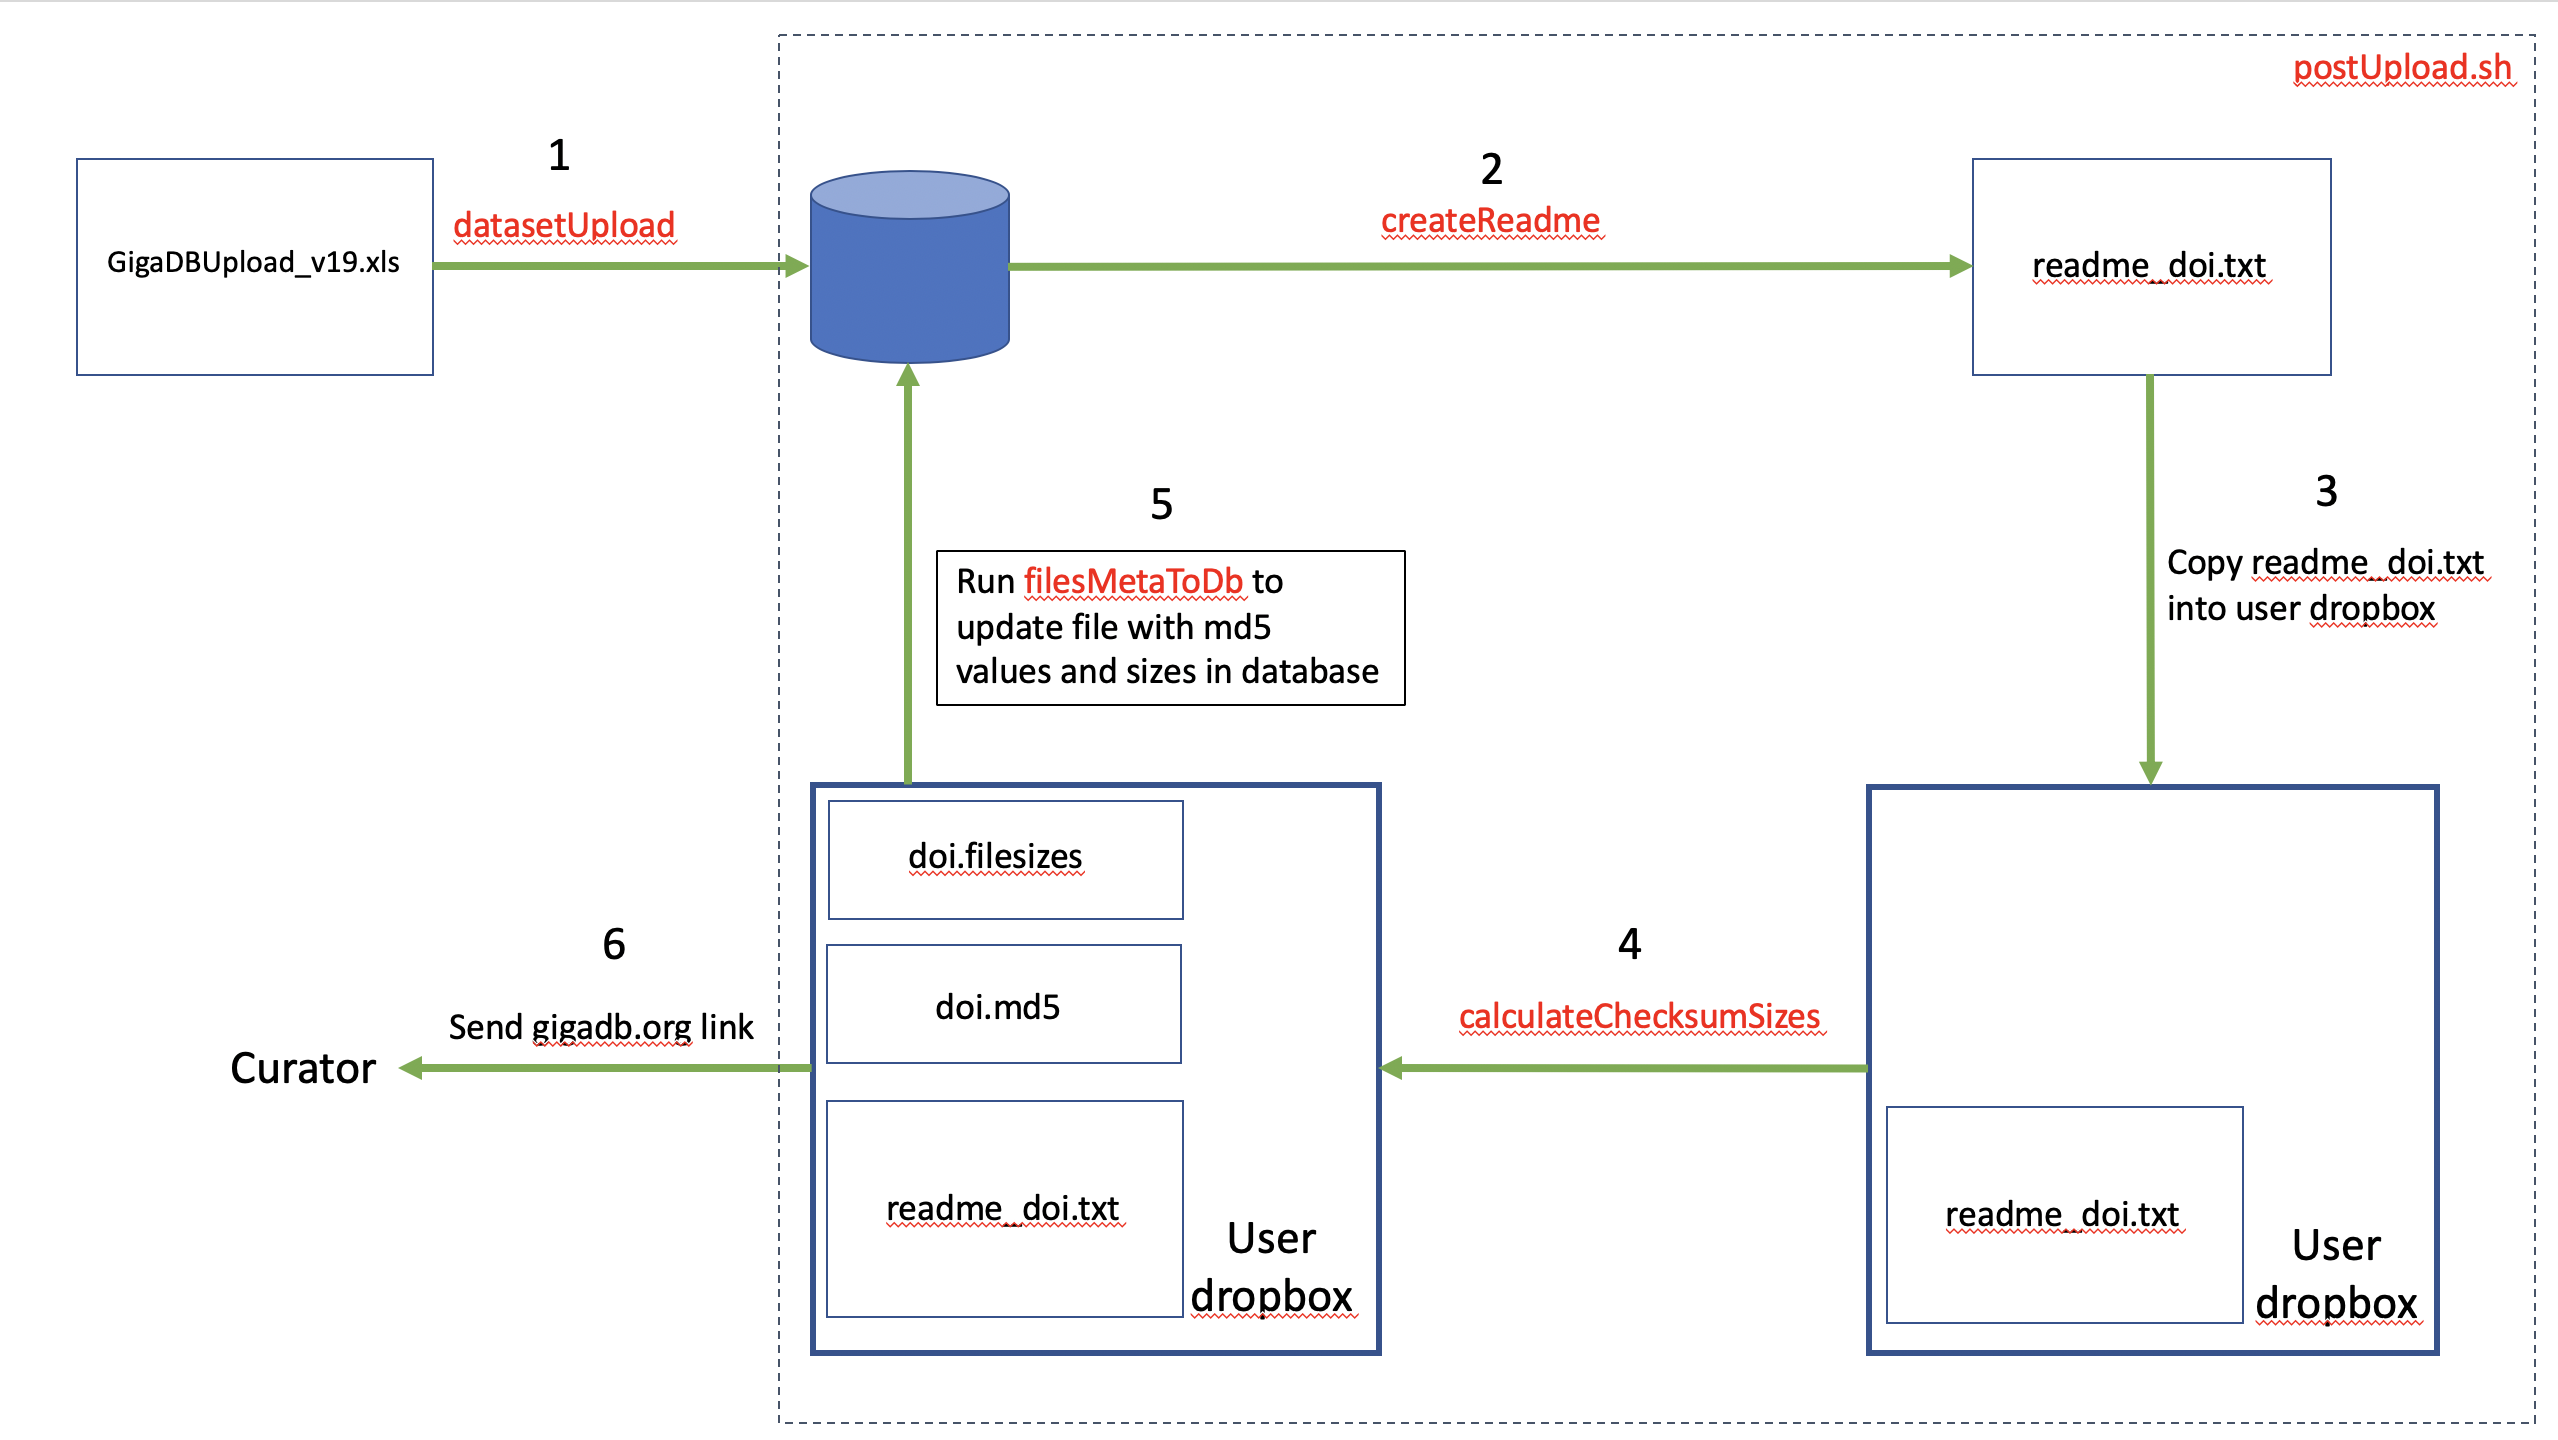
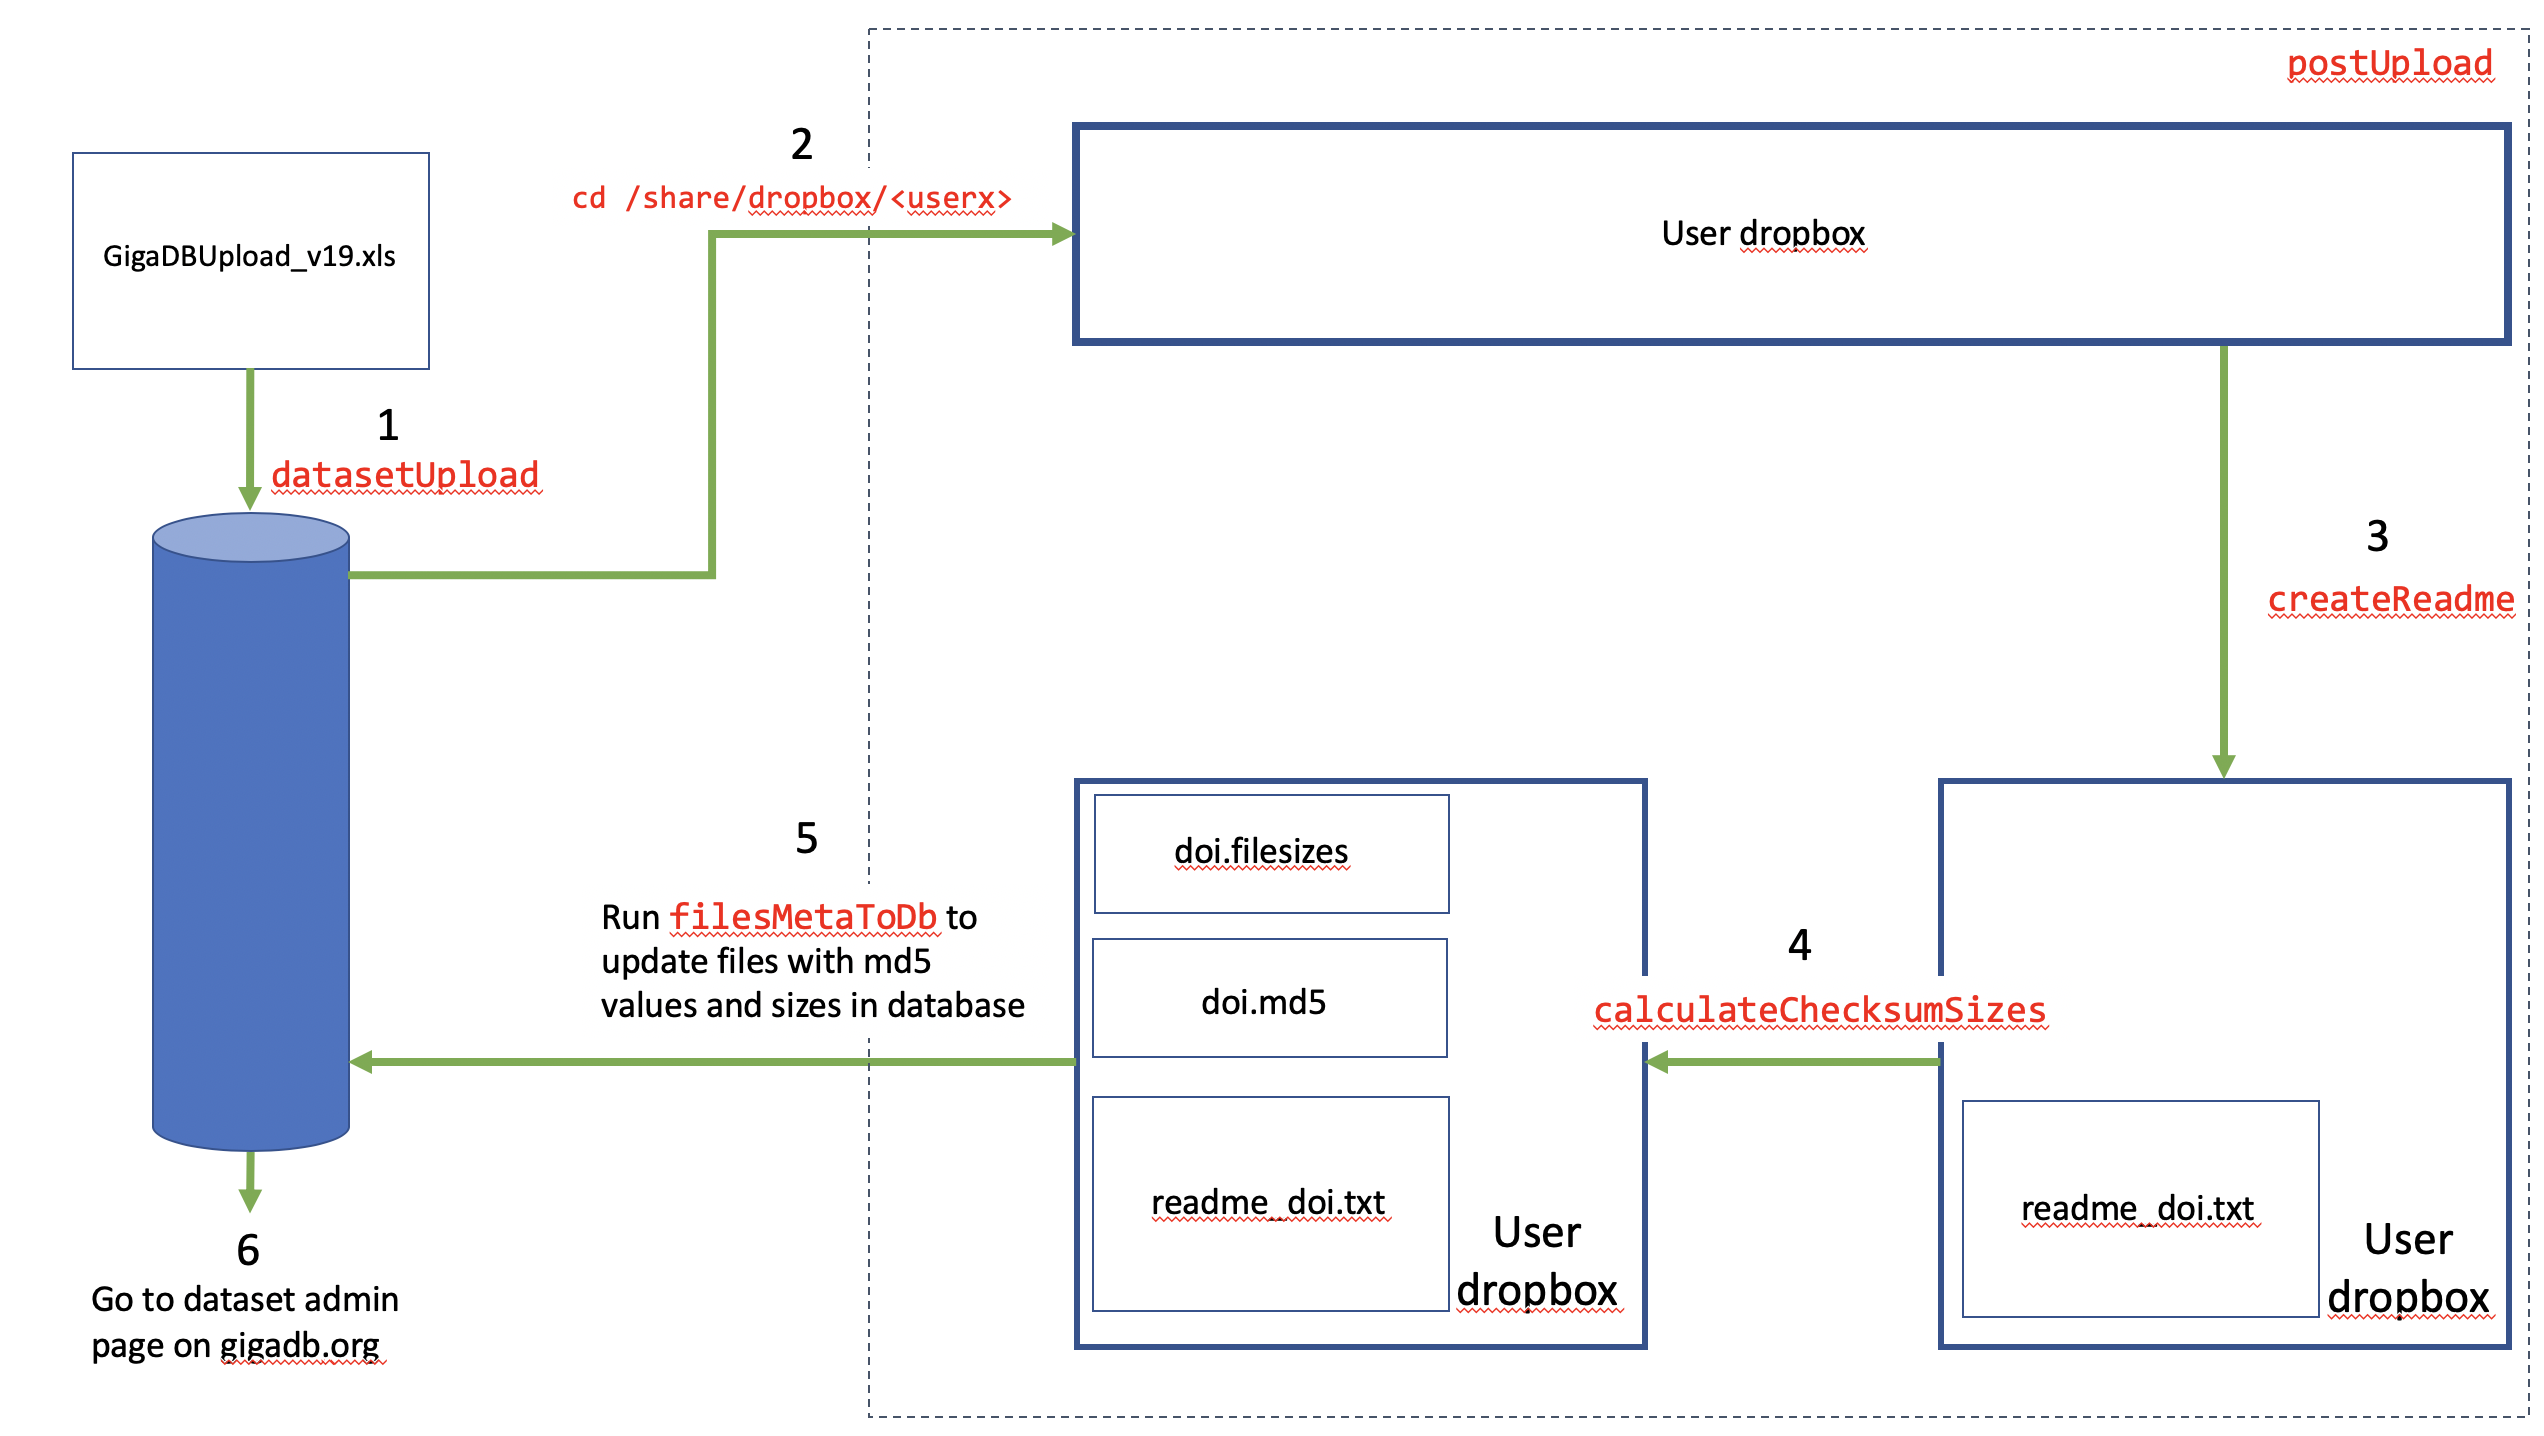
Update curator documentation

diff --git a/docs/curators/CURATOR_TOOLS_BASTION.md b/docs/curators/CURATOR_TOOLS_BASTION.md
@@ -4,13 +4,13 @@
 
 ![Tool Overview](./overview.png 'Overview of tools on bastion server')
 
-The bastion server provides a set of command-line tools which implement the above workflow for ingesting Excel spreadsheets and performing post-upload operations.
+New datasets are uploaded into GigaDB using Excel spreadsheets. The bastion server provides a set of command-line tools which implement the above workflow for ingesting Excel spreadsheets and performing post-upload operations.
 
 ## 1. datasetUpload
 
 After you have logged into the bastion server (bastion.gigadb.host) using SSH, you can begin the process of Excel spreadsheet ingestion into GigaDB.
 
-New datasets are uploaded into GigaDB using Excel spreadsheets. Dataset metadata is added into [Excel template file version 19](https://github.com/gigascience/gigadb-website/blob/develop/gigadb/app/tools/excel-spreadsheet-uploader/template/GigaDBUpload-template_v19.xls). This Excel file needs to placed in the `uploadDir` directory:
+Dataset metadata is added into [Excel template file version 19](https://github.com/gigascience/gigadb-website/blob/develop/gigadb/app/tools/excel-spreadsheet-uploader/template/GigaDBUpload-template_v19.xls). This Excel file needs to placed in the `uploadDir` directory:
 ```
 # Your home directory can be referred to using ~
 [peterl@ip-10-99-0-88 ~]$ ls ~
@@ -20,7 +20,7 @@ uploadDir
 Excel files can be uploaded into `uploadDir` using `sftp` tool or [Filezilla](https://filezilla-project.org).
 
 > [!TIP]
-> For testing purposes, download a test Excel file into `uploadDir` using this command: `curl -L -o "./uploadDir/GigaDBUpload_v18_102498_TRR_202311_02_Cell_Clustering_Spatial_Transcriptomics.xls" "https://drive.google.com/uc?export=download&id=1sLabqRPkhF61nRocLmumjjCxxjzmODH5"`
+> For testing purposes, download a test Excel file into `uploadDir` using this command: `curl -L -o "./uploadDir/GigaDBUpload_v18_102498_TRR_202311_02_Cell_Clustering_Spatial_Transcriptomics.xls" "https://drive.google.com/uc?export=download&id=129j3ikdSojNVpvZPnBefoOA2Uz6OusHR"`
 
 The Excel file can then be ingested using the datasetUpload script in `/usr/local/bin`:
 ```
@@ -79,39 +79,34 @@ validation output: false
 
 > In the above example error, dataset_type is wrongly spelt as `Genomics` which breaks the ingestion process and therefore needs to be corrected.
 
-## 2. createReadme
+## 2. Change directory to /share/dropbox/user directory
 
-From your home directory on the bastion server, readme files for datasets can be created using the `createReadme` script by calling it with a DOI; `--wasabi --apply --use-live-data` are parameters required to copy the readme file into Wasabi:
+Each dataset has an associated user dropbox directory located at `/share/dropbox/` that contains the files belonging to the dataset. Change directory to this user drop box directory, for example:
+```
+$ cd /share/dropbox/user5
+```
+
+## 3. createReadme
+
+From this the user dropbox directory, a readme file for the dataset can be created using the `createReadme` script by calling it with a DOI; `--wasabi --apply --use-live-data` are parameters required to copy the readme file into Wasabi:
 ```
 [peterl@ip-10-99-0-142 ~]$ pwd
-/home/peterl
+/share/dropbox/user5
 [peterl@ip-10-99-0-88 ~]$ sudo /usr/local/bin/createReadme --doi 102498
 ```
 
-A `readme_<doi>.txt` file will appear in the `uploadDir` directory.
+A `readme_<doi>.txt` file will appear in `/share/dropbox/user5` directory.
 ```
-[peterl@ip-10-99-0-142 ~]$ ls uploadDir/
-java.log  javac.log  readme_102498.txt  readme_102498_20240727_042600.log
+[peterl@ip-10-99-0-142 ~]$ ls
+DLPFC_69_72_VNS_results.csv  E2_VNS_Ground_Truth.csv  readme_102498.txt
 ```
 The readme file will also have been uploaded into the correct dataset directory in Wasabi live bucket.  The file size and MD5 value for the readme file will also be updated in the database.
 
-> [!NOTE]
-> To continue with the remainder of this workflow requires a user dropbox. We will be using the directory at `/share/dropbox/user5` that contains 2 files: `DLPFC_69_72_VNS_results.csv` and `E2_VNS_Ground_Truth.csv`. For the time being, the tech team will create new user dropboxes on request.
-
-## 3. Copy `readme_doi.txt` file into user dropbox
-
-The readme file in the uploadDir directory needs to be copied into the user dropbox:
-```
-[peterl@ip-10-99-0-142 ~]$ cp uploadDir/readme_102498.txt /share/dropbox/user5
-```
-
 ## 4. calculateChecksumSizes
 
-`$doi.md5` and `$doi.filesizes` provide information used to update dataaset files with md5 values and file size information in the database. The two files can be generated as follows:
+`$doi.md5` and `$doi.filesizes` provide information used to update dataset files with md5 values and file size in the database. These two files can be generated from the user5 dropbox:
 ```
-# Change directory to the user5 dropbox
-[peterl@ip-10-99-0-95 user5]$ cd /share/dropbox/user5
-# Provide the DOI number as a parameter
+# Provide DOI number as a parameter
 [peterl@ip-10-99-0-95 user5]$ sudo /usr/local/bin/calculateChecksumSizes 102498
 Created 102498.md5
 Created 102498.filesizes
@@ -124,27 +119,16 @@ Check the contents of the two files:
 301     ./DLPFC_69_72_VNS_results.csv
 332     ./E2_VNS_Ground_Truth.csv
 
-
 [peterl@ip-10-99-0-95 user5]$ more 102498.md5 
 2b74aa5af1b67e48f0317748cbfdf310  ./readme_102498.txt
 dc1feb8af3b8c02b0b615e968b87786d  ./DLPFC_69_72_VNS_results.csv
 b5a7e0953d1581077c13818153371918  ./E2_VNS_Ground_Truth.csv
 ```
 
-Not only are the `102498.md5` and `102498.filesizes` files created in the user5 dropbox but they are also in the `/var/share/gigadb/metadata/` directory on the bastion server. Check this:
-```
-[peterl@ip-10-99-0-95 user5]$ ls -l /var/share/gigadb/metadata/
-total 8
--rw-r--r--. 1 root root  89 Aug 27 06:59 102498.filesizes
--rw-r--r--. 1 root root 178 Aug 27 06:59 102498.md5
-```
-
 ## 5. Run `filesMetdaToDb` to update file with md5 values and sizes in database
 
-The `fileMetaToDb` script can use 102498.filesizes and 102498.md5 to update file metadata in the database:
+The `fileMetaToDb` script can use `102498.filesizes` and `102498.md5` to update file metadata in the database from the user dropbox folder:
 ```
-# Change directory to your home directory
-[peterl@ip-10-99-0-88 ~]$ cd
 [peterl@ip-10-99-0-95 ~]$ sudo /usr/local/bin/filesMetaToDb 102498
 Updating md5 checksum values as file attributes for 102498
 Number of changes: 3
@@ -155,26 +139,26 @@ Updated file metadata for 102498 in database
 
 You should check the adminfile pages of the files associated with this dataset to see if MD5 values and file sizes are visible.
 
-## 6. Send gigadb.org link
+## 6. Go to dataset admin page on gigadb.org
 
 With the post upload operations complete, you need to go back to the page at https://gigadb.org/adminDataset/update/id/<dataset_id>` in order to continue curation work on the dataset. You will be able to find this link by entering the dataset's DOI, e.g. 102498 into the DOI column header in /adminDataset/admin page.
 
-## postUpload.sh: using a wrapper script to create readme file and update file metadata in database
+## `postUpload`: a wrapper script to create readme file and update file metadata in database
 
-There is a script called postUpload which calls createReadme, calculateChecksumSizes and fileMetaToDb in turn so that these three tools do not have to be manually executed one after another:
+There is a script called `postUpload` which calls `createReadme`, `calculateChecksumSizes` and `fileMetaToDb` in turn so that these three tools do not have to be manually executed one after another:
 ```
-# Change directory to your home directory
-[peterl@ip-10-99-0-88 ~]$ cd
+# Ensure you are in the dropbox directory
+[peterl@ip-10-99-0-88 ~]$ pwd
+/share/dropbox/user5
 [peterl@ip-10-99-0-88 ~]$ sudo /usr/local/bin/postUpload --doi 102498 --dropbox user5
 Creating README file for 102498
 [DOI]
 10.5524/102498
 ...
-The readme_102498.txt has been moved to: /home/peterl/uploadDir
+[Comments]
 
-Log for copying readme_102498.txt to wasabi bucket has been moved to: /home/peterl/uploadDir
+[End]
 Created readme file and uploaded it to Wasabi gigadb-website/staging bucket directory
-Copying README file into dropbox user5
 Creating dataset metadata files for 102498
 Created 102498.md5
 Created 102498.filesizes
@@ -186,7 +170,7 @@ Number of changes: 3
 Updated file metadata for 102498 in database
 ```
 > [!TIP]
-> Take note of the number of changes made by the md5 and file size update tool. This number should be equal to the number of files in the dataset.
+> Take note of the number of changes made by the md5 and file size update tool. This number should be equal to the number of files listed in the metadata files.
 
 To ensure the postUpload script has worked, you should perform checks using the dataset, sample and file admin pages to see if dataset metadata are correctly stored in the database.
 
